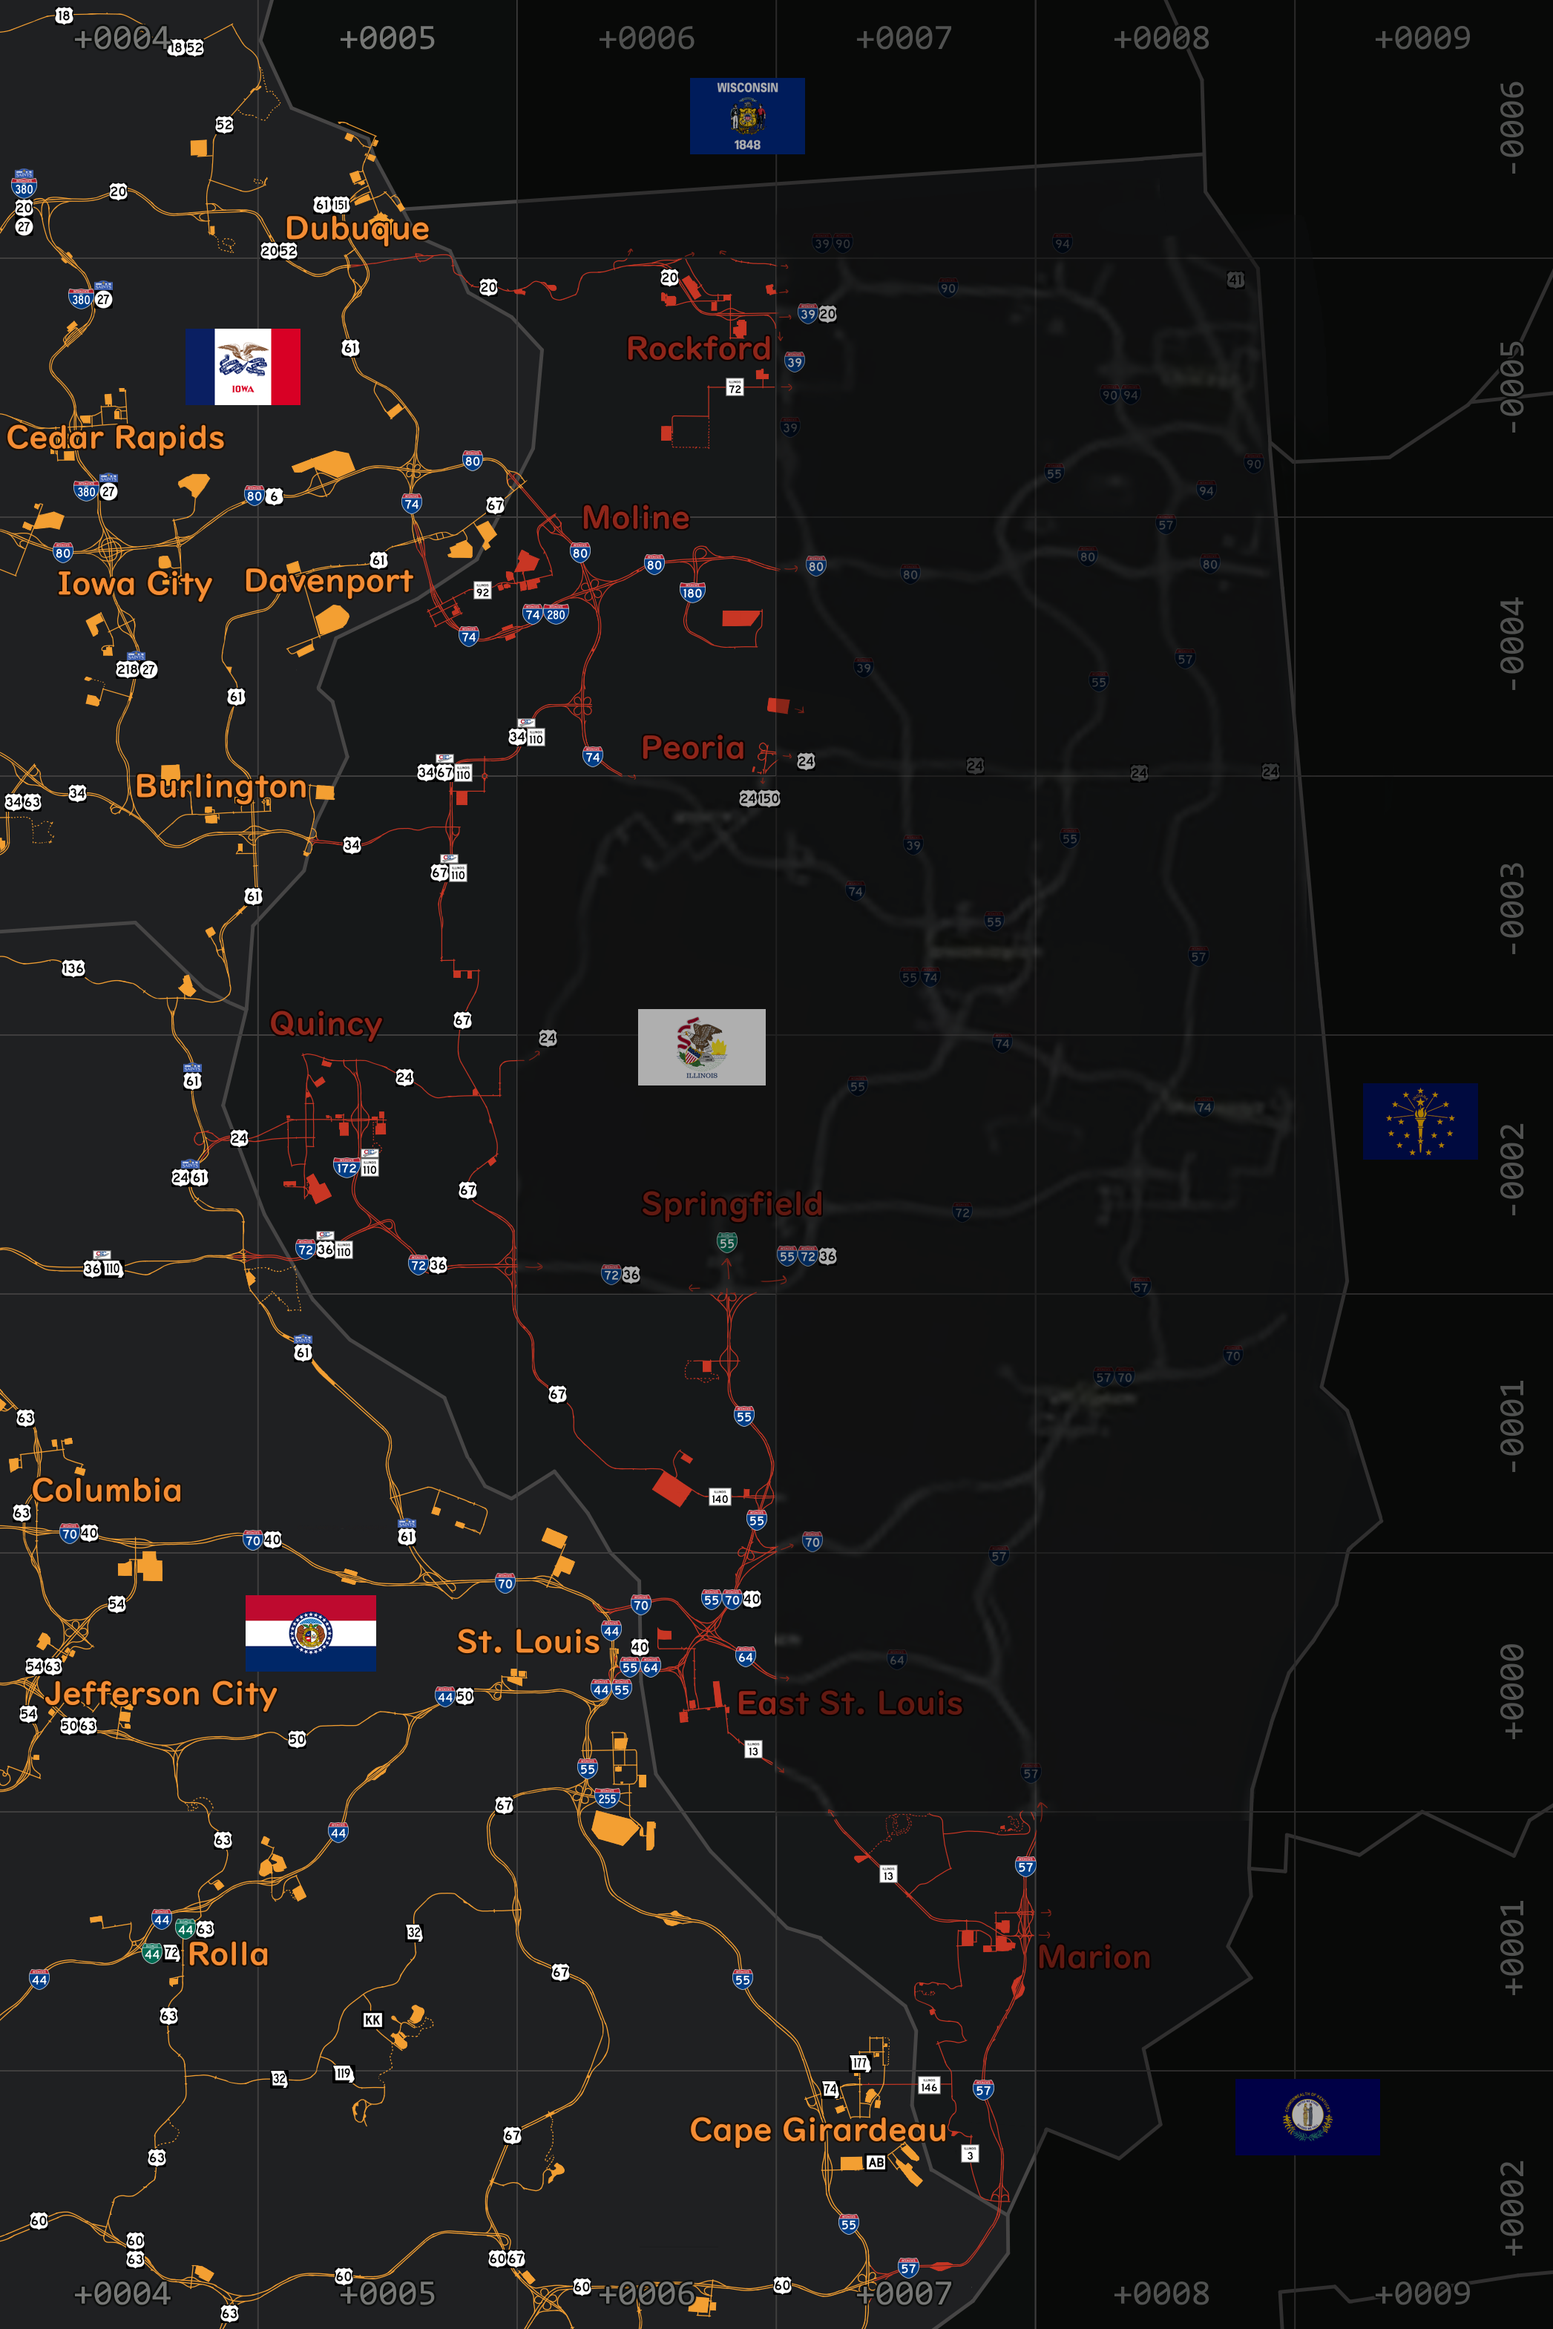
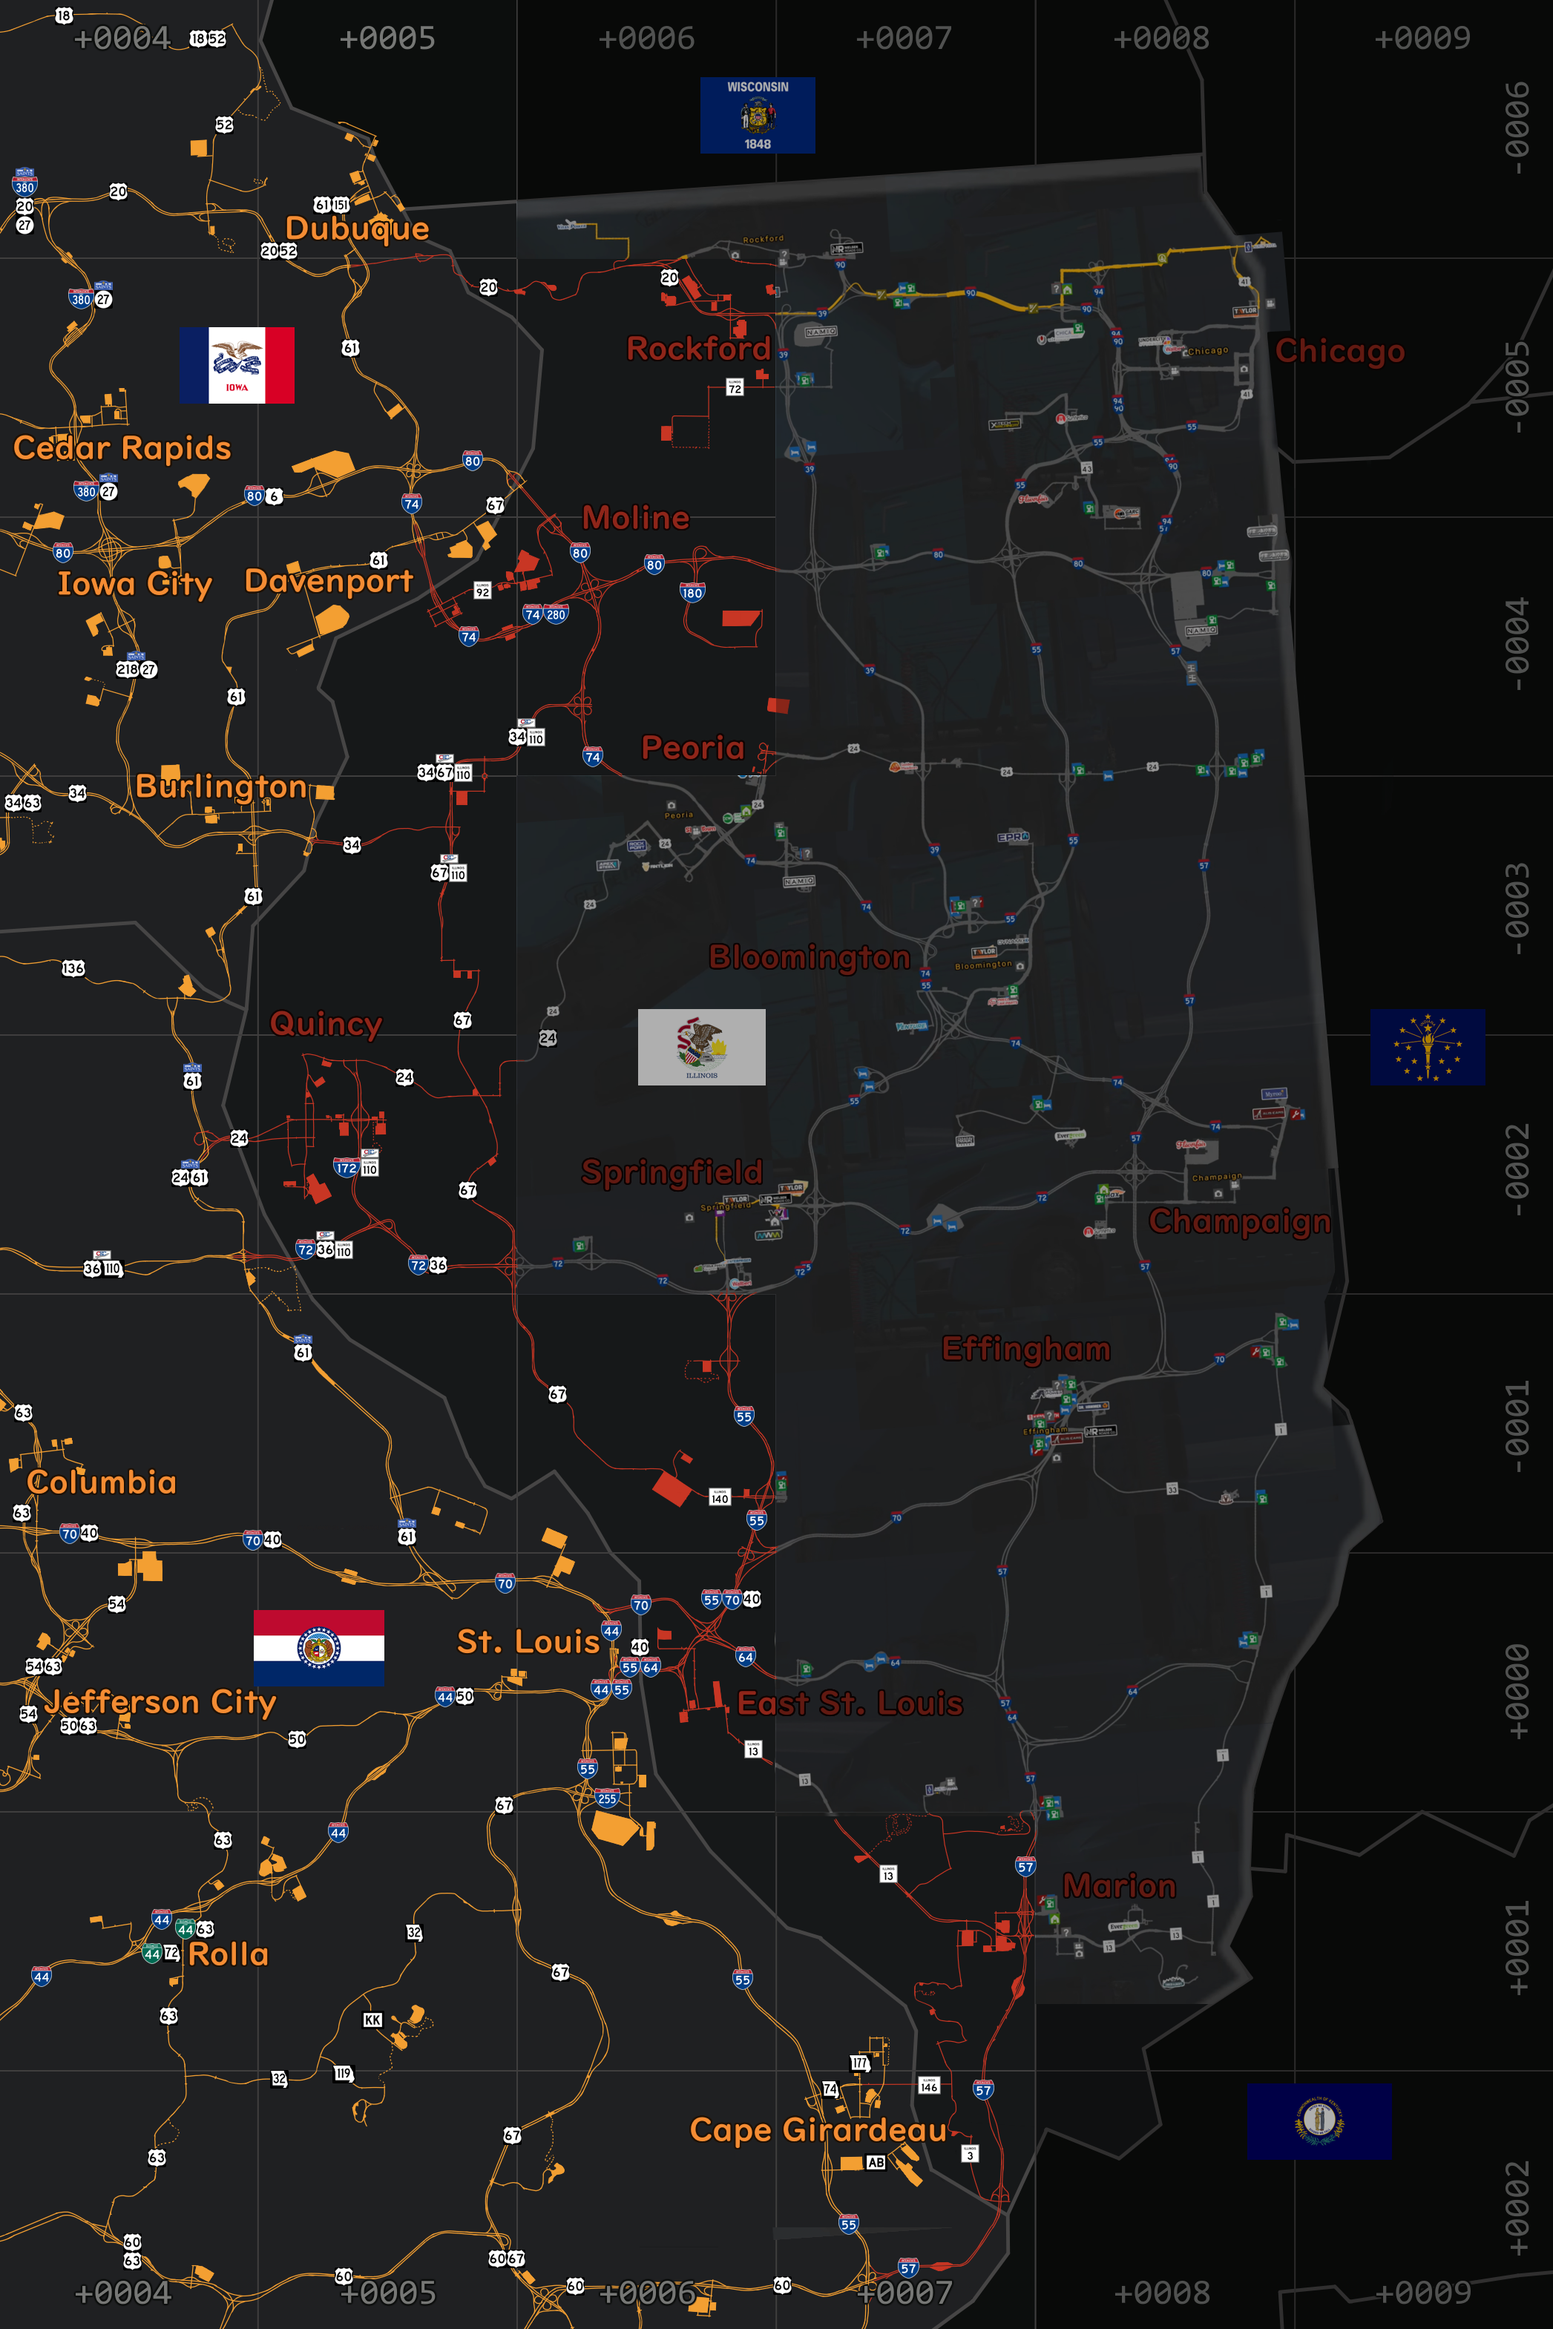
Version 59.5

diff --git a/index.html b/index.html
@@ -65,7 +65,7 @@
 
 <!-- update banner -->
 <div id="update-banner" hidden>
-  <span><strong>ATS v1.59 OB Updates:</strong></span>
+  <span><strong>ATS v1.59 Updates:</strong></span>
   <a href="#/ats/britishcolumbia">British Columbia</a>
   <a href="#/ats/illinois">Illinois</a>
   <a href="#/ats/montana">Montana</a>

diff --git a/ats/illinois.md b/ats/illinois.md
@@ -6,26 +6,17 @@
 
 ### 1.59
 
---- GAMEPLAY TRAILER 2 UPDATE
-- Corrected interstate patterns through the southern Chicago metro area
-- Brightened the 2025 ATS trailer map to make it more legible
-- Added implied continuation of I-64 east of I-57
-- Added remaining Illinois city names (Bloomington, Champaign, Chicago, Effingham)
-
-<img alt="1.59 IL (Gameplay Trailer 2 Update)" 
-     src="assets\img\statemaps\1.59-2 IL.png"
+<img alt="1.59 IL" 
+     src="assets\img\statemaps\1.59 IL.png"
      style="max-width: 100%; height: auto; width: auto; display: block;">
-
---- v1.59 UPDATE
 
 - All parts of the Illinois map hidden after 1.56 were readded to prepare for release
 - Minor changes to company boundaries, gas stations
 - Removed a hidden road off of I-57 in the far south of Illinois
 - Added a hidden road north of Marion
-
-<img alt="1.59 IL" 
-     src="assets\img\statemaps\1.59 IL.png"
-     style="max-width: 100%; height: auto; width: auto; display: block;">
+- Corrected interstate patterns through the southern Chicago metro area
+- Added remaining Illinois city names (Bloomington, Champaign, Chicago, Effingham)
+- Added the fully revealed map to replace the blurry trailer map
 
 ### 1.57-1.58
 

diff --git a/ats/southdakota.md b/ats/southdakota.md
@@ -6,6 +6,10 @@
 
 ### 1.58-1.59
 
+<img alt="1.58 SD" 
+     src="assets\img\statemaps\1.58 SD.png"
+     style="max-width: 100%; height: auto; width: auto; display: block;">
+
 - Many of the roads are now tagged for `Show in UI map` (except US-18, US-212) and assigned their DLC tags
 - Updated scenery and road layout to all roads except the above two as well
 - A section of US-18 (that was disconnected from the existing road) was removed/hidden
@@ -14,17 +18,13 @@
 - Sector `-0002-0006` was revealed with more of US-81
 - This map was unchanged going into 1.59.
 
-<img alt="1.58 SD" 
-     src="assets\img\statemaps\1.58 SD.png"
-     style="max-width: 100%; height: auto; width: auto; display: block;">
-
 ### 1.57
-
-- US-212 confirmed to continue into South Dakota from Montana.
 
 <img alt="1.57 SD" 
      src="assets\img\statemaps\1.57 SD.png"
      style="max-width: 100%; height: auto; width: auto; display: block;">
+
+- US-212 confirmed to continue into South Dakota from Montana.
 
 ### 1.56
 

diff --git a/changelog.md b/changelog.md
@@ -2,6 +2,12 @@
 <!-- https://tableconvert.com/excel-to-markdown -->
 <!--Mileage Markers ATS-59: BC,IL,MT,NV,ND,SD,WY //// ETS2-59: -->
 
+## 59.5
+For ATS v<span style="color:orange;"><b>1.59</b></span> and ETS2 v<span style="color:orange;"><b>1.59 OB</b></span>: 2026.5.5
+- Updated the Illinois (and by default the full US map) following reveal of the full Illinois map in detail during a May 5th livestream.
+- Removed duplicate Illinois maps for version 1.59, simplifying it to just one version.
+- Moved detailed map changes below their respective maps (Illinois, South Dakota).
+
 ## 59.4
 For ATS/ETS2 v<span style="color:orange;"><b>1.59 OB</b></span>: 2026.4.26
 - Updated the Illinois (and by default the full US map) following release of the Illinois Gameplay #2 video. See changes in the corresponding [Illinois](ats/illinois.md) page for details.

diff --git a/README.md b/README.md
@@ -6,7 +6,7 @@
 
 - Want further explanation regarding how the maps and mileage targets can be interpreted or found? [Click here!](interpretation.md)
 
-- This website is updated for version **<mark>v1.59 OB</mark>** released on April 14th (ATS) and April 16th (ETS2).
+- This website is updated for version **<mark>v1.59</mark>** released on May 5th (ATS) and version **<mark>v1.59 OB</mark>** released on April 16th (ETS2).
 
 **<mark>[Check out the changelog here for the most recent updates!](changelog.md)</mark>**
 
